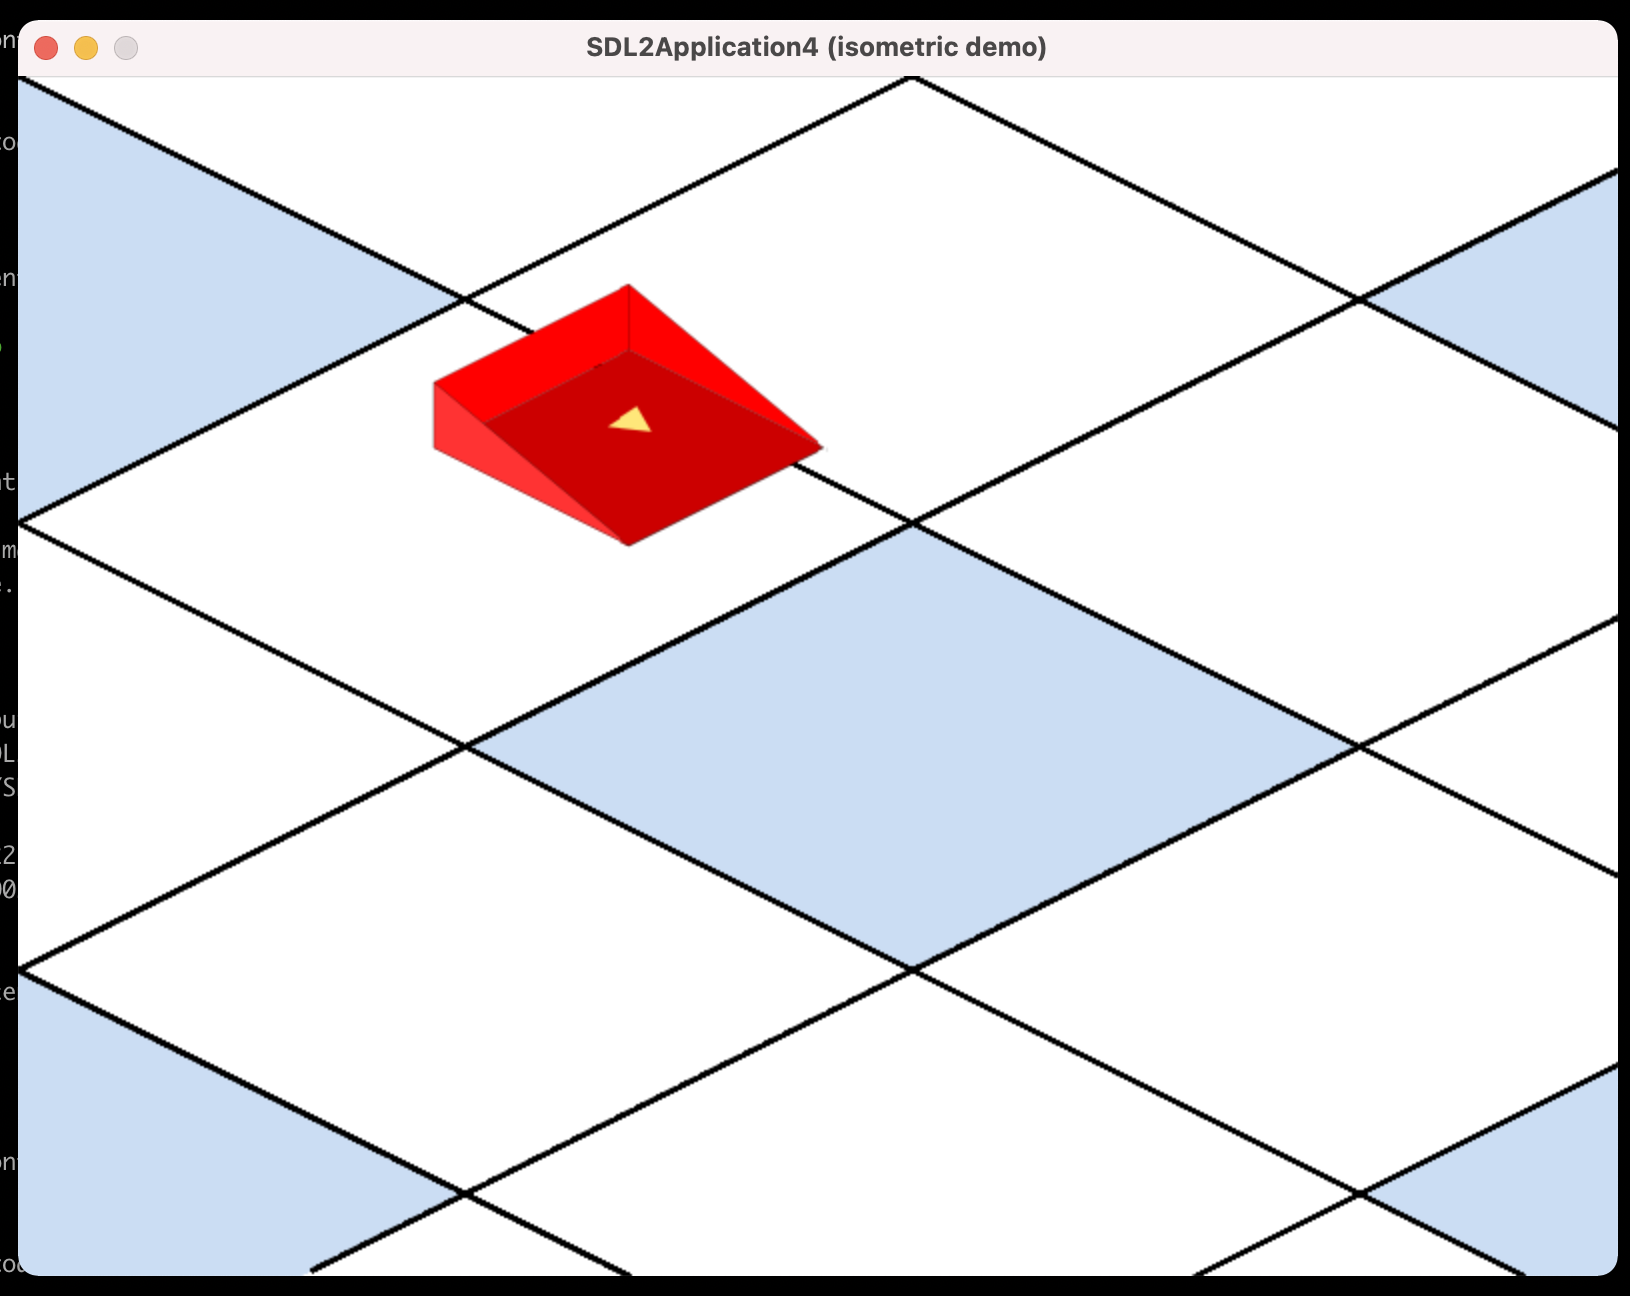
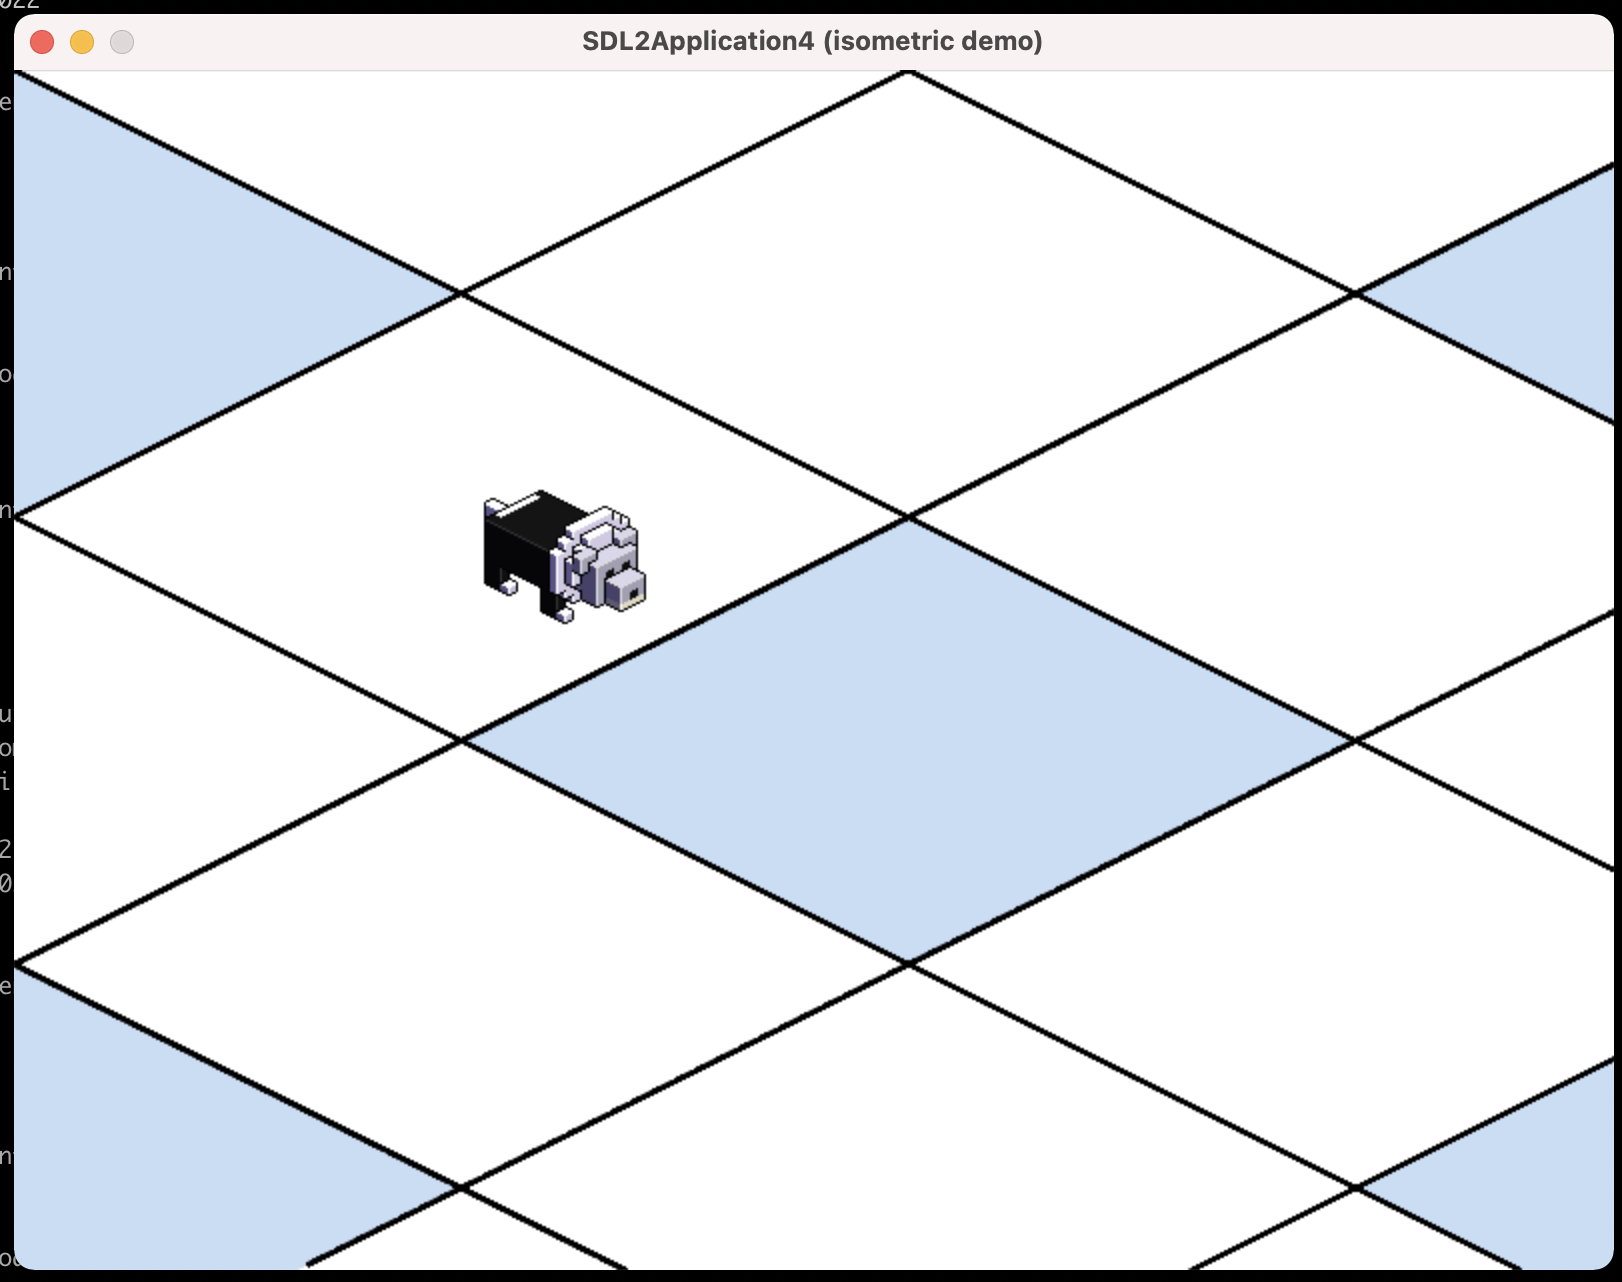
feat: adding better sprite sheet and MagicaVoxel file. Making sprite sheet boundary detection code automatic instead of hard coded

diff --git a/main.cpp b/main.cpp
@@ -22,12 +22,16 @@ float calculateVerticalVectorComponent(float vectorMagnitude) {
   return vectorMagnitude * sin(26.6 * PI / 180.0) * 2;
 }
 
-SDL_Texture *loadGameTextureAsset(std::string path, SDL_Renderer *renderer) {
+SDL_Surface *loadGameImageAsset(std::string path) {
   SDL_Surface *imageAsset = IMG_Load(path.c_str());
   if (imageAsset == NULL) {
     throw std::runtime_error("unable to load image");
   }
 
+  return imageAsset;
+}
+
+SDL_Texture *loadGameTextureAsset(SDL_Surface *imageAsset, SDL_Renderer *renderer) {
   SDL_Texture *texture = SDL_CreateTextureFromSurface(renderer, imageAsset);
   SDL_SetColorKey(imageAsset, SDL_TRUE,
                   SDL_MapRGB(imageAsset->format, 255, 255, 255));
@@ -53,20 +57,24 @@ int main() {
   SDL_Renderer *gameRenderer =
       SDL_CreateRenderer(screen, -1, SDL_RENDERER_ACCELERATED);
 
+  SDL_Surface *playerSpriteSheetSurface = NULL;
   SDL_Texture *playerSpriteSheetTexture = NULL;
   SDL_Texture *isometricBackgroundTexture = NULL;
   try {
-    playerSpriteSheetTexture = loadGameTextureAsset(
-        "./assets/isometric_box_sprite_sheet.png", gameRenderer);
+    playerSpriteSheetSurface = loadGameImageAsset("./assets/lion-cat-idle-1.png");
+    playerSpriteSheetTexture = loadGameTextureAsset(playerSpriteSheetSurface, gameRenderer);
     isometricBackgroundTexture =
-        loadGameTextureAsset("./assets/iso_metric_grid.png", gameRenderer);
+        loadGameTextureAsset(loadGameImageAsset("./assets/iso_metric_grid.png"), gameRenderer);
   } catch (const std::runtime_error &ex) {
     throw;
   }
 
+  float spriteSheetFrameW = playerSpriteSheetSurface->w / 4;
+  float spriteSheetFrameH = playerSpriteSheetSurface->h;
+
   SDL_FRect playerPositioningRect = {
-      .x = 0.0, .y = 0.0, .w = 198.0, .h = 132.0};
-  SDL_Rect playerSpriteSheetClippingRect = {.x = 0, .y = 0, .w = 200, .h = 132};
+      .x = 0.0, .y = 0.0, .w = spriteSheetFrameW, .h = spriteSheetFrameH};
+  SDL_Rect playerSpriteSheetClippingRect = {.x = 0, .y = 0, .w = spriteSheetFrameW, .h = spriteSheetFrameH};
 
   KEY_STATE keyState = {
       .up = false, .down = false, .left = false, .right = false};
@@ -133,22 +141,24 @@ int main() {
     if (keyState.left) {
       playerPositioningRect.x += calculateHorizontalVectorComponent(-velocity);
       playerPositioningRect.y += calculateVerticalVectorComponent(-velocity);
-      playerSpriteSheetClippingRect.x = 600;
+      playerSpriteSheetClippingRect.x = spriteSheetFrameW * 3;
       playerSpriteSheetClippingRect.y = 0;
     } else if (keyState.right) {
       playerPositioningRect.x += calculateHorizontalVectorComponent(velocity);
       playerPositioningRect.y += calculateVerticalVectorComponent(velocity);
-      playerSpriteSheetClippingRect.x = 200;
+      playerSpriteSheetClippingRect.x = spriteSheetFrameW;
       playerSpriteSheetClippingRect.y = 0;
     } else if (keyState.up) {
-      playerPositioningRect.x += calculateHorizontalVectorComponent(velocity);
+                  playerPositioningRect.x += calculateHorizontalVectorComponent(velocity);
       playerPositioningRect.y += calculateVerticalVectorComponent(-velocity);
-      playerSpriteSheetClippingRect.x = 0;
+     
+      playerSpriteSheetClippingRect.x = spriteSheetFrameW * 2;
       playerSpriteSheetClippingRect.y = 0;
     } else if (keyState.down) {
-      playerPositioningRect.x += calculateHorizontalVectorComponent(-velocity);
+ playerPositioningRect.x += calculateHorizontalVectorComponent(-velocity);
       playerPositioningRect.y += calculateVerticalVectorComponent(velocity);
-      playerSpriteSheetClippingRect.x = 400;
+
+      playerSpriteSheetClippingRect.x = 0;
       playerSpriteSheetClippingRect.y = 0;
     }
 
